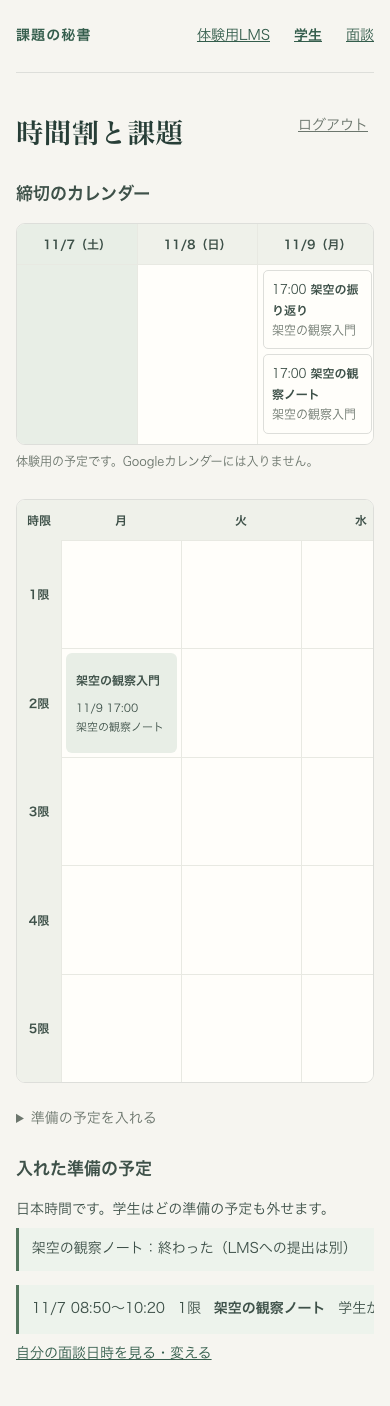
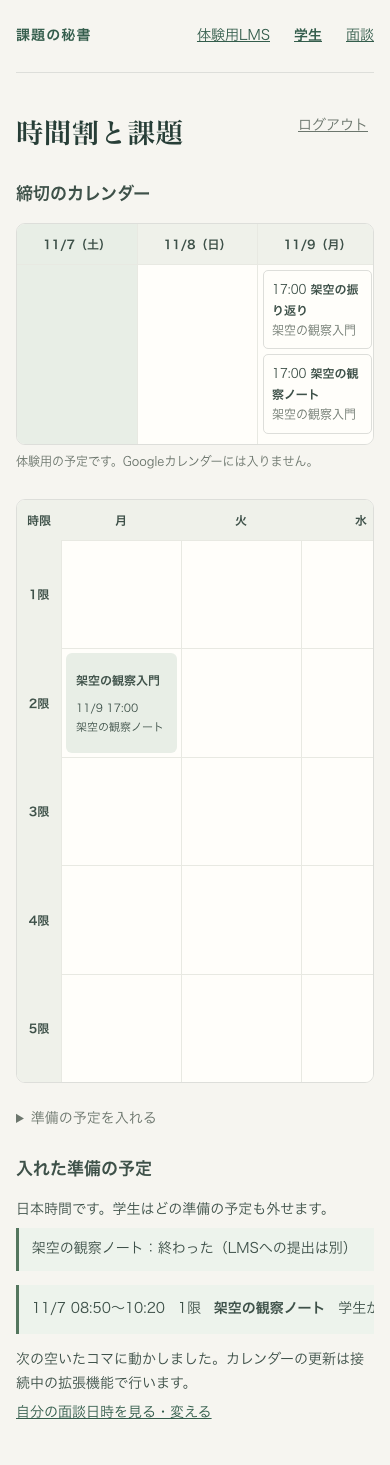
Record review corrections, test results and refreshed preparation screens

diff --git a/docs/records/2026-11-07-issue-112.md b/docs/records/2026-11-07-issue-112.md
@@ -62,3 +62,34 @@ PR作成後にベースとの競合を確認し、`origin/issue-49` を取り込
 PR #79のmerge済みを確認したため、Issue #112の前提に従い、`origin/main` を取り込んでPRのbaseを `main` に変更する。取り込みで追加されたのは、mainで確定したPLANの条件とCloud Run用の型宣言。取り込み後の指定6検査もすべて成功した。PR差分に拡張側の変更はない。
 
 mainのPR #114によりC34が達成済みとなりC42・C43が追加されたため、現在の完成条件は全体31/43・必須29/39。今回の機能が追加で達成した数字とは扱わない。今回分はC23〜C25の証拠の追記で、M6の今回の測定は引き続き9時以降に残る。
+
+## PR #117のレビュー対応（2026-11-07 6時台）
+
+最新のClaudeの指摘1〜9を修正した。`origin/main` を取り込み、最初の競合は準備候補の共通関数とmainの締切表示を両方残して解消した。作業中にPR #116もmainへ入ったため、そのmain（`c8a7d09`）をさらに取り込んだ。拡張の実装ファイルへの独自の変更はない。
+
+| 指摘 | 修正と回帰試験 |
+|---|---|
+| 1. 後回しを繰り返せない | メールの両リンク・ログイン後の戻り先・本文なしPOSTに `rev` を渡す。今の版でだけ変更し、`planActionReceipts/{planId}-{revision}` に応答を保存する。古い版にはその応答を返し、記録がない版は409。別の操作でも同じ版なら先の結果を返す。空きなしは何も保存せず再計算する。エミュレーターで同時クリック、2回の移動、古い版・未来の版、完了後の再送、空きが後からできた場合を確認。画面の単体試験とブラウザで未来の予定のボタンが残り、新しい版で再度動くことを確認 |
+| 2. 準備の完了とLMS提出 | 準備を完了しても未提出なら48時間の締切一覧に残す。`digest.test.ts` で48時間の両端とともに確認。契約文書も修正 |
+| 3. 体験用見本の更新 | 日付が違う・完了・取消なら同じIDで版を進めて作り直す。別の有効な準備の時刻を避ける。エミュレーターで翌日・完了・取消・同日の再送と重なり、ブラウザで完了後の作り直しを確認 |
+| 4. 題名・授業名の改行 | 連続する空白を1つにまとめてから件名・text・htmlを組み立てる。単体試験で改行・タブを含む両方の名前を確認 |
+| 5. 時刻での重なり | 共通の候補計算は、設定表の開始・終了と保存済み予定の開始・終了を比較する。時限の番号が違う予定や日をまたぐ予定、完了済みの除外を共通核で確認。エミュレーターでも番号の違う重複を避けた移動を確認 |
+| 6. 1件の危険な値 | `packages/core/src/mail-safety.ts` の `isSafeMailText(value: string): boolean` を `@kadai-hisho/core` からexport。元のsafeTextの条件を共通化し、課題名・授業名・URLの検査に失敗した課題だけを除く。共通核で符号化された値を含む19件、digestで残りの課題が返ることを確認。関数の名前・場所はPRコメントへ記録済み。取り込んだ拡張の `parseDigest`・`mailIsSafe` が実際にサーバーの本文を受け取れる試験も追加 |
+| 7. 30分前の件名 | 各予定の件名を「13:00から：課題名の準備」にし、朝のまとめの件名と分けた。単体試験で双方を比較 |
+| 8. 時限表と出典 | `packages/core/src/preparation.ts` の `preparationPeriodTimes: Partial<Record<LmsSystem, PreparationPeriodTimes>>` に移した。表のある種類だけ移動先の時刻を計算する。共通核で値・未設定の種類、エミュレーターで未設定なら動かないことを確認。出典は指示された全学教育科目時間割表へ差し替え、2026年度未確認を明記。今回はHTTP 404でPDFを再取得できておらず、値を再照合できたとは扱わない |
+| 9. 起動条件 | `PUBLIC_WEB_ORIGIN` がなくてもAPI全体・準備操作は動き、GET digestだけ503。末尾の `/` は除いて受け付ける。Firebase projectの明示設定も無い起動、health 200、digest 503、末尾スラッシュを単体試験で確認。エミュレーターでは公開先なしでも準備を完了できた |
+
+修正前は、digestの回帰9件中8件、時刻の重なり1件、HTTPと起動条件4件中3件、エミュレーター11件中3件、画面の回帰2件が失敗することを確認した。その失敗から修正し、main取り込み後の最終確認は次のとおり。
+
+| 最終確認 | 結果 |
+|---|---|
+| 指定の6検査 | 全成功（終了コード0）。core 200、extension 229、web 60、server 166件成功。通常実行で省略するエミュレーター分は下で個別に実行 |
+| Firestore規則 | 44件成功。新しい操作の受領記録は、本人・支援担当を含む全クライアントの読み書きを拒否 |
+| digest・既存plansのAuth/Firestore | 21件成功（digest 13・plans 8）。実物用の同期キューと体験用の保存済み予定の移動、同期失敗後の再送も含む |
+| digestのChromium操作 | 6操作から8操作に増え、全成功。ブラウザ例外0。開いたままの学生・面談①②、繰り返す後回し、同じメールリンク、ログイン復帰時の版、完了後の見本の作り直し。[操作記録](2026-11-07-issue-112/review-operations.json) |
+| 既存plansのChromium操作 | 10操作成功、ブラウザ例外0 |
+| 画面 | 上の1280px・390pxの8枚を今回の写真へ更新し、メールと面談②の写真を目視確認。横はみ出しなし |
+| 見本 | 17ファイル成功。`fixtures-local/` は読み書きしていない。正解と判定基準も変更していない |
+| PLAN | C23〜C25の証拠を追記し、`pnpm progress --write` を実行。全体31/43・必須29/39のまま |
+
+M6の比較元は引き続きローカル8/8。今回も日本時間6時台のため、Issueの指定に従い9時以降の測定を残す。M6の入力・判定・時計は変えていない。残件はM6、時限表の出典PDFの再取得・2026年度の表の確認、Claudeの再確認とmerge・デプロイ、その後の本人のGmail・実物カレンダーでの通し。実際の送信や実物への反映を、このローカル試験の成功には含めない。
